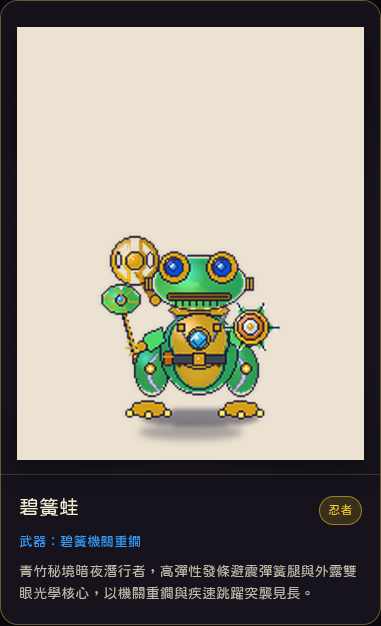
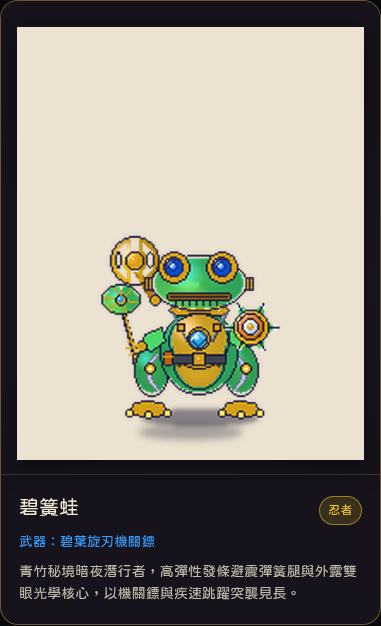
fix(docs/web): 修正碧簧蛙武器為碧葉旋刃機關鏢（忍者／鏢定位）與存證更新 (t_dc0f70d7)

Changed region(s): [[0.3753, 0.9409, 0.8084, 0.9712], [0.1732, 0.8498, 0.4042, 0.8802]]

diff --git a/web/index.html b/web/index.html
@@ -349,15 +349,15 @@
 
           <article class="race-card">
             <div class="race-card__media">
-              <img src="media/hero/char_frog.png" alt="碧簧蛙立繪：金屬發條蛙、碧簧機關重鐧、高彈性發條彈簧腿" decoding="async" />
+              <img src="media/hero/char_frog.png" alt="碧簧蛙立繪：金屬發條蛙、碧葉旋刃機關鏢、高彈性發條彈簧腿" decoding="async" />
             </div>
             <div class="race-card__body">
               <div class="race-card__header">
                 <h4 class="race-card__name">碧簧蛙</h4>
                 <span class="race-card__badge">忍者</span>
               </div>
-              <p class="race-card__weapon">武器：碧簧機關重鐧</p>
-              <p class="race-card__desc">青竹秘境暗夜潛行者，高彈性發條避震彈簧腿與外露雙眼光學核心，以機關重鐧與疾速跳躍突襲見長。</p>
+              <p class="race-card__weapon">武器：碧葉旋刃機關鏢</p>
+              <p class="race-card__desc">青竹秘境暗夜潛行者，高彈性發條避震彈簧腿與外露雙眼光學核心，以機關鏢與疾速跳躍突襲見長。</p>
             </div>
           </article>
 

diff --git a/docs/ART_DAILY_CONSTITUTION.md b/docs/ART_DAILY_CONSTITUTION.md
@@ -31,7 +31,7 @@
 
 1. **玩家開局可從十三發條種族擇一，各族武器與定位見 2.2**：經典代表角色小白為 2.2 頭身、米白金屬板件發條兔、立耳、背上黃銅鑰匙、胸口青綠發條之心、持單手長劍（晨曦發條單手長劍）。  
 2. **讀卡四件永遠在**：米白大色塊｜立耳剪影｜背後鑰匙｜青綠之心——縮到小圖也要認得出。  
-3. **十三種族皆為開局可選英雄**：玩家開局可從十三發條種族擇一，各族武器與定位見 2.2；頭身帶與小白同（約 2.2～2.5），只靠武器剪影與特色板件分職。十三族官方對應：白金兔（晨曦發條單手長劍）、烈鬃獅（皇家黃銅突刺長槍）、靈尾狐（星盤晶核秘術法杖）、鋼牙豕（鍛爐鐵砧重型戰鎚）、靈爪猴（機關發條靈爪護手）、烈焰虎（齒輪發條雙斬刃）、雲嵐鶴（風弦羽翼機關弓）、玄軸熊（玄軸偏心重力錘）、蒸氣企鵝（蒸氣雙管導航火槍）、玄機龜（玄機八卦發條星盤）、鋼岳象（巨輪開山重斧）、碧簧蛙（碧簧機關重鐧）、瓷韻熊貓（乾坤太極機關拳套）。  
+3. **十三種族皆為開局可選英雄**：玩家開局可從十三發條種族擇一，各族武器與定位見 2.2；頭身帶與小白同（約 2.2～2.5），只靠武器剪影與特色板件分職。十三族官方對應：白金兔（晨曦發條單手長劍）、烈鬃獅（皇家黃銅突刺長槍）、靈尾狐（星盤晶核秘術法杖）、鋼牙豕（鍛爐鐵砧重型戰鎚）、靈爪猴（機關發條靈爪護手）、烈焰虎（齒輪發條雙斬刃）、雲嵐鶴（風弦羽翼機關弓）、玄軸熊（玄軸偏心重力錘）、蒸氣企鵝（蒸氣雙管導航火槍）、玄機龜（玄機八卦發條星盤）、鋼岳象（巨輪開山重斧）、碧簧蛙（碧葉旋刃機關鏢）、瓷韻熊貓（乾坤太極機關拳套）。  
 4. **材質**：乾淨烤漆金屬玩具；可見接縫／螺絲 OK。⛔ 絨毛、⛔ 主角生鏽暗黑、⛔ 恐怖谷縫合怪。  
 5. **磨損歸敵人**：鏽蝕、裂漆、掉零件只給敵對玩具，當對比。  
 6. **全角色統一**：深色描邊（outline）＋腳底軟影；表情至少 4～6 張循環（驚／喜／認真／受傷）。

diff --git a/docs/ART_DIRECTION.md b/docs/ART_DIRECTION.md
@@ -114,7 +114,7 @@
 | **企鵝（蒸氣企鵝）** | 遊俠 | **蒸氣雙管導航火槍**（雙管火槍） | 雙聯並列鍍鈦耐壓重銃，背部舵輪發條鑰匙與微型蒸氣排氣背包 |
 | **龜（玄機龜）** | 法師 | **玄機八卦發條星盤**（浮空星盤）、天元道場玄機護甲 | 圓闊低重心青古銅龜甲板件，背部旋轉八卦發條甲與雙聯八卦經緯環，以浮空護體靈晶與結界壁壘見長 |
 | **象（鋼岳象）** | 戰士 | **巨輪開山重斧**（重斧）、巨輪工坊重裝板件 | 2.2 頭身金屬巨象，六節套筒液壓長鼻與扇形散熱耳板，背後大型黃銅發條鑰匙，戰士／斧定位，零毛皮 |
-| **蛙（碧簧蛙）** | 忍者 | **碧簧機關重鐧**（機關鐧）、夜行青葉護甲 | 2.2 頭身金屬發條蛙，高彈性發條彈簧腿與外露雙眼光學核心，背後雙環發條鑰匙，忍者／鐧定位，零毛皮 |
+| **蛙（碧簧蛙）** | 忍者 | **碧葉旋刃機關鏢**（機關鏢）、夜行青葉護甲 | 2.2 頭身金屬發條蛙，高彈性發條彈簧腿與外露雙眼光學核心，背後雙環發條鑰匙，忍者／鏢定位，零毛皮 |
 | **熊貓（瓷韻熊貓）** | 武術家 | **乾坤太極機關拳套**（機關拳套）、禪道學徒長袍 | 2.2 頭身生漆白瓷金屬玩具，羊脂白瓷與黑曜生漆板件，背後太極如意黃銅發條鑰匙，武術家／拳定位，零毛皮 |
 
 封面／主視覺**可以多族同框**，不必只放兔子。
